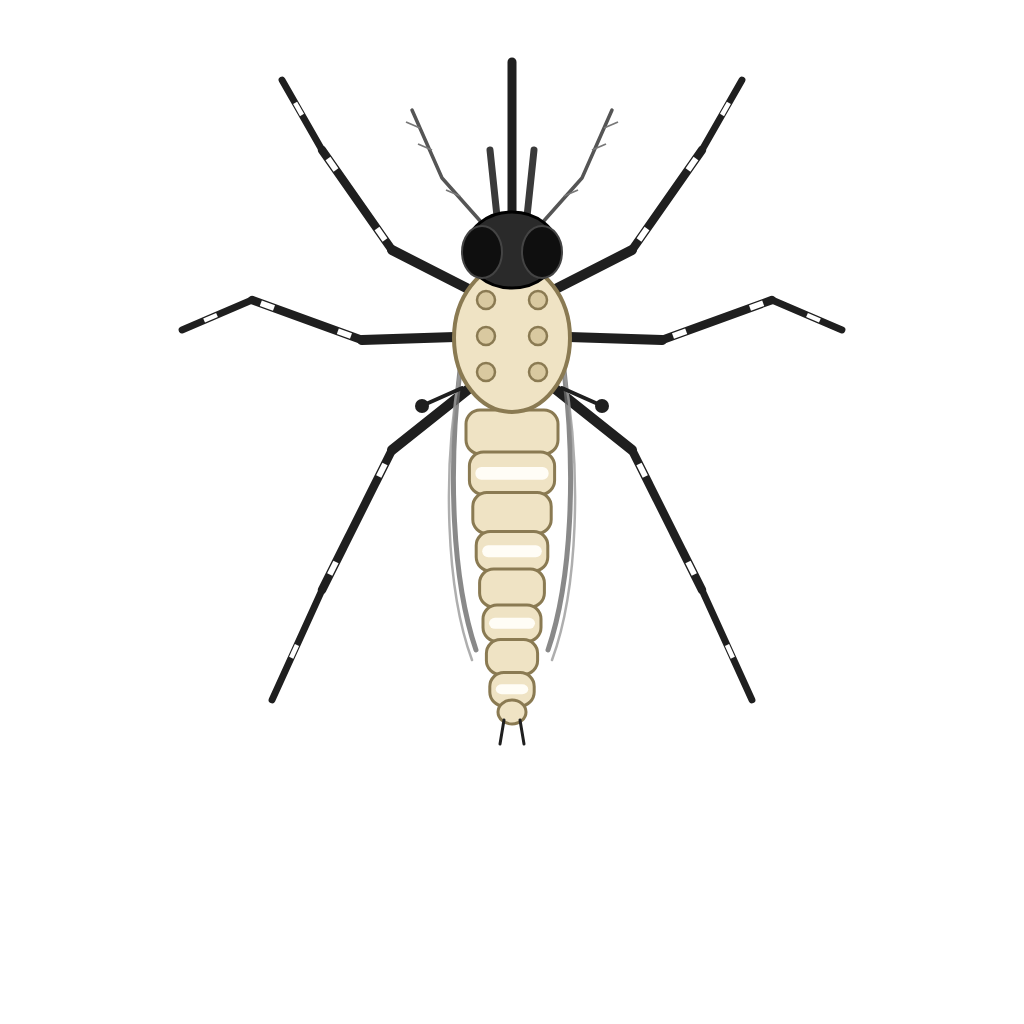
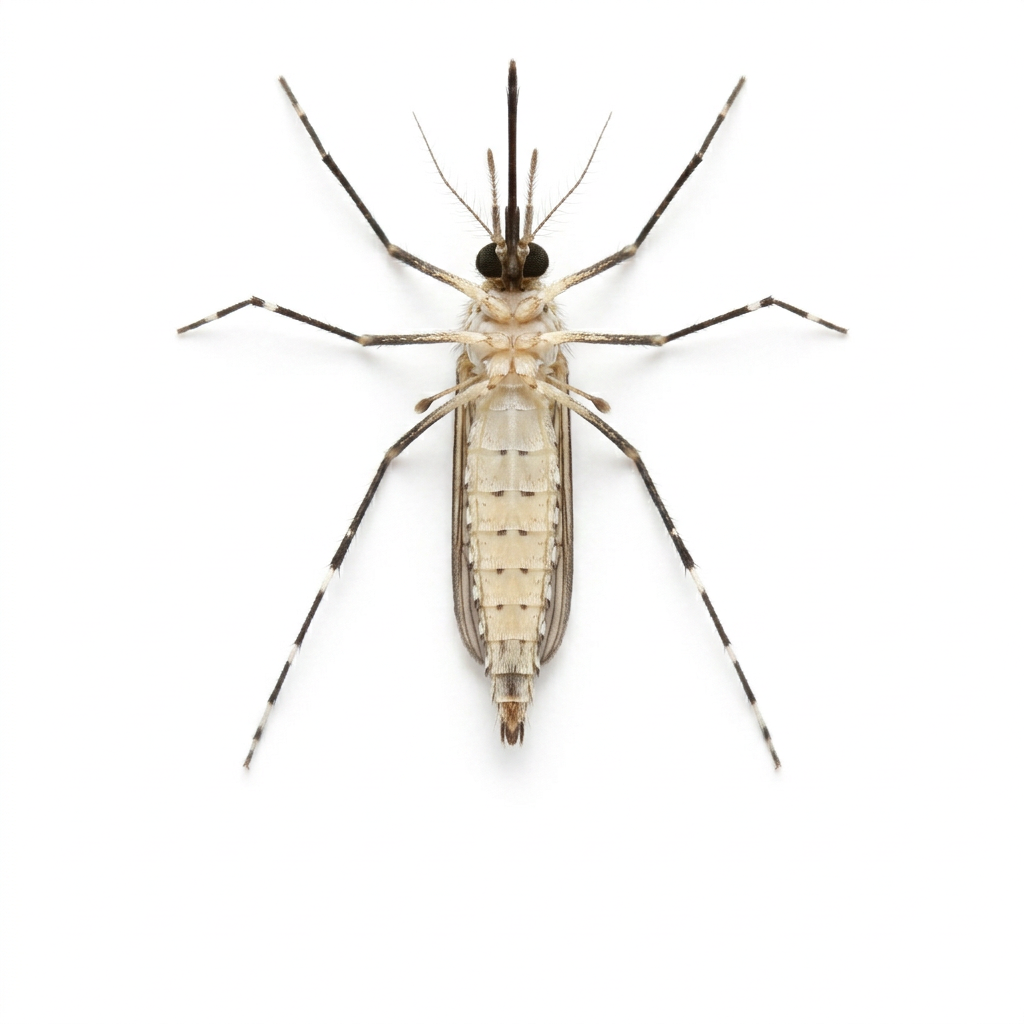
Update image results and review notes for various species
- Changed status from "revisi" to "ok" for several images of Aedes mosquitoes, cockroaches, and bees after successful revisions.
- Updated notes to reflect the realistic rendering of images based on new guidelines.
- Added new image files for cockroaches, bees, and mosquitoes with updated turnaround views.
- Included additional usage records for images processed through the Gemini model.
- Adjusted existing images to ensure consistency with realistic styles and removed vector images that did not meet standards.

diff --git a/osn-app/image-results/_galeri.html b/osn-app/image-results/_galeri.html
@@ -13,7 +13,7 @@ figcaption span{color:#fff;border-radius:99px;padding:1px 8px;font-size:12px}sma
 .tabs-bab{margin-top:12px}
 .ringkas{margin:6px 0 14px;font-size:15px}.ringkas b{font-weight:700}</style>
 <h1>Galeri gambar OSN SD</h1>
-<p class="ringkas"><b>2092 slot seharusnya ada · 2092 terisi · 0 belum di-generate (100% terisi) · 375 objek</b><br>lolos: 2084 · revisi: 8 · salah: 0 · belum direview: 0</p>
+<p class="ringkas"><b>2092 slot seharusnya ada · 2092 terisi · 0 belum di-generate (100% terisi) · 375 objek</b><br>lolos: 2092 · revisi: 0 · salah: 0 · belum direview: 0</p>
 <p>klik gambar untuk ukuran penuh · kotak putus-putus = slot yang seharusnya ada tetapi belum di-generate · muat ulang halaman ini setelah menjalankan galeri.mjs lagi</p>
 <nav class="tabs tabs-mapel"><button class="tab-mapel active" data-mapel="ipa">IPA <small>1908/1908</small></button><button class="tab-mapel" data-mapel="mtk">MTK <small>184/184</small></button></nav>
 <div class="panel-mapel" data-mapel="ipa" >
@@ -409,9 +409,9 @@ figcaption span{color:#fff;border-radius:99px;padding:1px 8px;font-size:12px}sma
 <figcaption><b>p12-penampang-transparan</b> <span style="background:#16a34a">lolos</span><small>Lolos (perlu paraf guru IPA): tampak perut dengan paru-paru, jantung, hati, lambung, usus, kandung kemih; kaki depan 4 jari, belakang 5 jari.</small></figcaption></figure></div></section><section><h2>kecambah <em>ipa/01-makhluk-hidup/kecambah</em> <span class="cnt">2/2 terisi</span></h2><div class="grid"><figure><a href="ipa/01-makhluk-hidup/kecambah/p01-realistis-depan.png" target="_blank"><img loading="lazy" src="ipa/01-makhluk-hidup/kecambah/p01-realistis-depan.png" alt="kecambah p01-realistis-depan"></a>
 <figcaption><b>p01-realistis-depan</b> <span style="background:#16a34a">lolos</span><small>Tepat 4 tahap perkecambahan kacang hijau: (1) biji utuh, (2) biji terbelah dengan radikula kecil, (3) kecambah dengan hipokotil berkait dan akar memanjang, (4) kecambah berdiri dengan kotiledon lebih besar di bawah dan sepasang daun sejati di atas, akar di bawah. Tidak ada tanah/panah/teks, sesuai prompt.</small></figcaption></figure><figure><a href="ipa/01-makhluk-hidup/kecambah/p02-ilustrasi-depan.png" target="_blank"><img loading="lazy" src="ipa/01-makhluk-hidup/kecambah/p02-ilustrasi-depan.png" alt="kecambah p02-ilustrasi-depan"></a>
 <figcaption><b>p02-ilustrasi-depan</b> <span style="background:#16a34a">lolos</span><small>FIXED (sebelumnya GAGAL karena 5 tahap) — sekarang tepat 4 tahap perkecambahan kacang hijau: (1) biji utuh, (2) biji terbelah dengan radikula kecil, (3) kecambah dengan hipokotil berkait dan akar memanjang, (4) kecambah berdiri dengan kotiledon terangkat di batang (sesuai perkecambahan epigeal kacang hijau) dan sepasang daun sejati, akar di bawah. Tidak ada tanah/panah/teks. Lolos.</small></figcaption></figure></div></section><section><h2>kecoak <em>ipa/01-makhluk-hidup/kecoak</em> <span class="cnt">10/10 terisi</span></h2><div class="grid"><figure><a href="ipa/01-makhluk-hidup/kecoak/p01-realistis-turnaround.png" target="_blank"><img loading="lazy" src="ipa/01-makhluk-hidup/kecoak/p01-realistis-turnaround.png" alt="kecoak p01-realistis-turnaround"></a>
-<figcaption><b>p01-realistis-turnaround</b> <span style="background:#d97706">revisi</span><small>Keempat salinan identik (tampak atas). Prompt: &quot;Four copies: front (head toward camera, eye level), back, left profile, right profile.&quot;</small></figcaption></figure><figure><a href="ipa/01-makhluk-hidup/kecoak/p02-realistis-depan.png" target="_blank"><img loading="lazy" src="ipa/01-makhluk-hidup/kecoak/p02-realistis-depan.png" alt="kecoak p02-realistis-depan"></a>
+<figcaption><b>p01-realistis-turnaround</b> <span style="background:#16a34a">lolos</span><small>Disusun otomatis dari p02, p03, p04, p05 (depan, belakang, kiri, kanan) yang sudah lolos review.</small></figcaption></figure><figure><a href="ipa/01-makhluk-hidup/kecoak/p02-realistis-depan.png" target="_blank"><img loading="lazy" src="ipa/01-makhluk-hidup/kecoak/p02-realistis-depan.png" alt="kecoak p02-realistis-depan"></a>
 <figcaption><b>p02-realistis-depan</b> <span style="background:#16a34a">lolos</span><small>Lolos: kecoak Amerika, 6 kaki berduri, antena panjang, pronotum berpola, sayap menutupi abdomen.</small></figcaption></figure><figure><a href="ipa/01-makhluk-hidup/kecoak/p03-realistis-belakang.png" target="_blank"><img loading="lazy" src="ipa/01-makhluk-hidup/kecoak/p03-realistis-belakang.png" alt="kecoak p03-realistis-belakang"></a>
-<figcaption><b>p03-realistis-belakang</b> <span style="background:#d97706">revisi</span><small>Konten benar setelah 5x gagal di Gemini (duplikat tampak depan): kecoak dari belakang, sayap penutup berupa kubah dengan garis tengah, ujung perut dan sepasang sersi (cerci) bersegmen mengarah ke penonton, tiga pasang kaki berduri terentang (kaki belakang paling besar), antena panjang ke depan. Tetapi ini gambar VEKTOR datar, bukan foto realistis seperti p02/p04/p05 — gaya tidak konsisten dengan set realistis. Tidak diterbitkan app (slot belakang tidak dipakai).</small></figcaption></figure><figure><a href="ipa/01-makhluk-hidup/kecoak/p04-realistis-kiri.png" target="_blank"><img loading="lazy" src="ipa/01-makhluk-hidup/kecoak/p04-realistis-kiri.png" alt="kecoak p04-realistis-kiri"></a>
+<figcaption><b>p03-realistis-belakang</b> <span style="background:#16a34a">lolos</span><small>Foto realistis (dirender Gemini dari panduan komposisi vektor + foto depan p02, skrip gemini-ref.mjs). Tampak belakang sungguhan: kubah sayap penutup dengan garis tengah, ujung perut dan sepasang sersi bersegmen mengarah ke kamera, pronotum berpita pucat di ujung jauh, 6 kaki berduri (3 per sisi, kaki belakang terbesar), 2 antena panjang. Latar putih polos, tanpa teks. Jumlah bagian dihitung manual dari gambar.</small></figcaption></figure><figure><a href="ipa/01-makhluk-hidup/kecoak/p04-realistis-kiri.png" target="_blank"><img loading="lazy" src="ipa/01-makhluk-hidup/kecoak/p04-realistis-kiri.png" alt="kecoak p04-realistis-kiri"></a>
 <figcaption><b>p04-realistis-kiri</b> <span style="background:#16a34a">lolos</span><small>Lolos: kecoak Amerika, 6 kaki berduri, antena panjang, pronotum berpola, sayap menutupi abdomen.</small></figcaption></figure><figure><a href="ipa/01-makhluk-hidup/kecoak/p05-realistis-kanan.png" target="_blank"><img loading="lazy" src="ipa/01-makhluk-hidup/kecoak/p05-realistis-kanan.png" alt="kecoak p05-realistis-kanan"></a>
 <figcaption><b>p05-realistis-kanan</b> <span style="background:#16a34a">lolos</span><small>Lolos: kecoak Amerika, 6 kaki berduri, antena panjang, pronotum berpola, sayap menutupi abdomen.</small></figcaption></figure><figure><a href="ipa/01-makhluk-hidup/kecoak/p06-ilustrasi-turnaround.png" target="_blank"><img loading="lazy" src="ipa/01-makhluk-hidup/kecoak/p06-ilustrasi-turnaround.png" alt="kecoak p06-ilustrasi-turnaround"></a>
 <figcaption><b>p06-ilustrasi-turnaround</b> <span style="background:#16a34a">lolos</span><small>Disusun otomatis dari p07, p08, p09, p10 (depan, belakang, kiri, kanan) yang sudah lolos review.</small></figcaption></figure><figure><a href="ipa/01-makhluk-hidup/kecoak/p07-ilustrasi-depan.png" target="_blank"><img loading="lazy" src="ipa/01-makhluk-hidup/kecoak/p07-ilustrasi-depan.png" alt="kecoak p07-ilustrasi-depan"></a>
@@ -567,9 +567,9 @@ figcaption span{color:#fff;border-radius:99px;padding:1px 8px;font-size:12px}sma
 <figcaption><b>p08-ilustrasi-belakang</b> <span style="background:#16a34a">lolos</span><small>Lolos: lalat rumah, 2 sayap, 6 kaki berbulu, mata majemuk merah, 4 garis gelap di toraks.</small></figcaption></figure><figure><a href="ipa/01-makhluk-hidup/lalat/p09-ilustrasi-kiri.png" target="_blank"><img loading="lazy" src="ipa/01-makhluk-hidup/lalat/p09-ilustrasi-kiri.png" alt="lalat p09-ilustrasi-kiri"></a>
 <figcaption><b>p09-ilustrasi-kiri</b> <span style="background:#16a34a">lolos</span><small>Lolos: lalat rumah, 2 sayap, 6 kaki berbulu, mata majemuk merah, 4 garis gelap di toraks.</small></figcaption></figure><figure><a href="ipa/01-makhluk-hidup/lalat/p10-ilustrasi-kanan.png" target="_blank"><img loading="lazy" src="ipa/01-makhluk-hidup/lalat/p10-ilustrasi-kanan.png" alt="lalat p10-ilustrasi-kanan"></a>
 <figcaption><b>p10-ilustrasi-kanan</b> <span style="background:#16a34a">lolos</span><small>Lolos: lalat rumah, 2 sayap, 6 kaki berbulu, mata majemuk merah, 4 garis gelap di toraks.</small></figcaption></figure></div></section><section><h2>lebah <em>ipa/01-makhluk-hidup/lebah</em> <span class="cnt">10/10 terisi</span></h2><div class="grid"><figure><a href="ipa/01-makhluk-hidup/lebah/p01-realistis-turnaround.png" target="_blank"><img loading="lazy" src="ipa/01-makhluk-hidup/lebah/p01-realistis-turnaround.png" alt="lebah p01-realistis-turnaround"></a>
-<figcaption><b>p01-realistis-turnaround</b> <span style="background:#d97706">revisi</span><small>Kedua profil menghadap ke kiri; profil kanan tidak ada. Prompt: &quot;Third copy head pointing LEFT, fourth copy head pointing RIGHT.&quot;</small></figcaption></figure><figure><a href="ipa/01-makhluk-hidup/lebah/p02-realistis-depan.png" target="_blank"><img loading="lazy" src="ipa/01-makhluk-hidup/lebah/p02-realistis-depan.png" alt="lebah p02-realistis-depan"></a>
+<figcaption><b>p01-realistis-turnaround</b> <span style="background:#16a34a">lolos</span><small>Disusun otomatis dari p02, p03, p04, p05 (depan, belakang, kiri, kanan) yang sudah lolos review.</small></figcaption></figure><figure><a href="ipa/01-makhluk-hidup/lebah/p02-realistis-depan.png" target="_blank"><img loading="lazy" src="ipa/01-makhluk-hidup/lebah/p02-realistis-depan.png" alt="lebah p02-realistis-depan"></a>
 <figcaption><b>p02-realistis-depan</b> <span style="background:#16a34a">lolos</span><small>Lolos: lebah madu, 4 sayap, 6 kaki dengan keranjang serbuk sari, abdomen bergaris.</small></figcaption></figure><figure><a href="ipa/01-makhluk-hidup/lebah/p03-realistis-belakang.png" target="_blank"><img loading="lazy" src="ipa/01-makhluk-hidup/lebah/p03-realistis-belakang.png" alt="lebah p03-realistis-belakang"></a>
-<figcaption><b>p03-realistis-belakang</b> <span style="background:#d97706">revisi</span><small>Konten benar (lebah dari belakang: ujung perut + sengat paling dekat, kepala kecil + antena bersiku di ujung jauh, 4 sayap terlipat, 6 kaki, keranjang serbuk sari) tetapi file ini gambar VEKTOR datar, bukan foto ultra-realistis seperti p02/p04/p05 — gaya tidak konsisten dengan set realistis (permintaan reviewer osn-app-ce). Tidak diterbitkan app. Perbaikan: foto tampak belakang lebah madu CC0/PD (belum ditemukan di Commons) atau generasi foto realistis baru dengan acuan depan satu-giliran.</small></figcaption></figure><figure><a href="ipa/01-makhluk-hidup/lebah/p04-realistis-kiri.png" target="_blank"><img loading="lazy" src="ipa/01-makhluk-hidup/lebah/p04-realistis-kiri.png" alt="lebah p04-realistis-kiri"></a>
+<figcaption><b>p03-realistis-belakang</b> <span style="background:#16a34a">lolos</span><small>Foto realistis (dirender Gemini dari panduan komposisi vektor + foto depan p02, skrip gemini-ref.mjs). Tampak belakang (ujung perut mengarah ke kamera): perut bergaris amber-hitam, sayap terlipat di atas punggung, toraks berbulu emas, kepala kecil dengan 2 antena bersiku di ujung jauh, 6 kaki (3 per sisi) dengan keranjang serbuk sari kuning di kaki belakang. Sengat tidak terlihat (sesuai katalog). Latar putih polos, tanpa teks. Jumlah bagian dihitung manual.</small></figcaption></figure><figure><a href="ipa/01-makhluk-hidup/lebah/p04-realistis-kiri.png" target="_blank"><img loading="lazy" src="ipa/01-makhluk-hidup/lebah/p04-realistis-kiri.png" alt="lebah p04-realistis-kiri"></a>
 <figcaption><b>p04-realistis-kiri</b> <span style="background:#16a34a">lolos</span><small>Lolos: lebah madu, 4 sayap, 6 kaki dengan keranjang serbuk sari, abdomen bergaris.</small></figcaption></figure><figure><a href="ipa/01-makhluk-hidup/lebah/p05-realistis-kanan.png" target="_blank"><img loading="lazy" src="ipa/01-makhluk-hidup/lebah/p05-realistis-kanan.png" alt="lebah p05-realistis-kanan"></a>
 <figcaption><b>p05-realistis-kanan</b> <span style="background:#16a34a">lolos</span><small>Lolos: lebah madu, 4 sayap, 6 kaki dengan keranjang serbuk sari, abdomen bergaris.</small></figcaption></figure><figure><a href="ipa/01-makhluk-hidup/lebah/p06-ilustrasi-turnaround.png" target="_blank"><img loading="lazy" src="ipa/01-makhluk-hidup/lebah/p06-ilustrasi-turnaround.png" alt="lebah p06-ilustrasi-turnaround"></a>
 <figcaption><b>p06-ilustrasi-turnaround</b> <span style="background:#16a34a">lolos</span><small>Disusun otomatis dari p07, p08, p09, p10 (depan, belakang, kiri, kanan) yang sudah lolos review.</small></figcaption></figure><figure><a href="ipa/01-makhluk-hidup/lebah/p07-ilustrasi-depan.png" target="_blank"><img loading="lazy" src="ipa/01-makhluk-hidup/lebah/p07-ilustrasi-depan.png" alt="lebah p07-ilustrasi-depan"></a>
@@ -621,9 +621,9 @@ figcaption span{color:#fff;border-radius:99px;padding:1px 8px;font-size:12px}sma
 <figcaption><b>p02-ilustrasi-depan</b> <span style="background:#16a34a">lolos</span><small>Konsisten dengan versi realistis: bunga merah spiral, kuncup, daun bergerigi, duri pada batang, gaya ilustrasi bersih sesuai spesifikasi.</small></figcaption></figure></div></section><section><h2>melinjo <em>ipa/01-makhluk-hidup/melinjo</em> <span class="cnt">2/2 terisi</span></h2><div class="grid"><figure><a href="ipa/01-makhluk-hidup/melinjo/p01-realistis-depan.png" target="_blank"><img loading="lazy" src="ipa/01-makhluk-hidup/melinjo/p01-realistis-depan.png" alt="melinjo p01-realistis-depan"></a>
 <figcaption><b>p01-realistis-depan</b> <span style="background:#16a34a">lolos</span><small>Ranting melinjo dengan daun elips mengilap berhadapan dan kelompok biji telanjang (naked seeds, bukan di dalam buah) dalam berbagai tahap kematangan (hijau, kuning, oranye, merah) — sesuai deskripsi Gnetum gnemon dan ciri khas Gymnospermae (biji terbuka).</small></figcaption></figure><figure><a href="ipa/01-makhluk-hidup/melinjo/p02-ilustrasi-depan.png" target="_blank"><img loading="lazy" src="ipa/01-makhluk-hidup/melinjo/p02-ilustrasi-depan.png" alt="melinjo p02-ilustrasi-depan"></a>
 <figcaption><b>p02-ilustrasi-depan</b> <span style="background:#16a34a">lolos</span><small>Konsisten dengan versi realistis: daun elips berhadapan, kelompok biji dalam berbagai warna kematangan pada tangkai pendek sepanjang ranting, gaya ilustrasi sesuai spesifikasi.</small></figcaption></figure></div></section><section><h2>nyamuk-aedes <em>ipa/01-makhluk-hidup/nyamuk-aedes</em> <span class="cnt">10/10 terisi</span></h2><div class="grid"><figure><a href="ipa/01-makhluk-hidup/nyamuk-aedes/p01-realistis-turnaround.png" target="_blank"><img loading="lazy" src="ipa/01-makhluk-hidup/nyamuk-aedes/p01-realistis-turnaround.png" alt="nyamuk-aedes p01-realistis-turnaround"></a>
-<figcaption><b>p01-realistis-turnaround</b> <span style="background:#d97706">revisi</span><small>Ilmiah benar (pola lira putih di toraks, kaki bergelang putih, antena betina berambut jarang, 6 kaki), tetapi ada garis pembatas panel padahal dilarang. Kecil; bisa dipakai setelah dipotong per panel, atau generate ulang dengan template baru.</small></figcaption></figure><figure><a href="ipa/01-makhluk-hidup/nyamuk-aedes/p02-realistis-depan.png" target="_blank"><img loading="lazy" src="ipa/01-makhluk-hidup/nyamuk-aedes/p02-realistis-depan.png" alt="nyamuk-aedes p02-realistis-depan"></a>
+<figcaption><b>p01-realistis-turnaround</b> <span style="background:#16a34a">lolos</span><small>Disusun otomatis dari p02, p03, p04, p05 (depan, belakang, kiri, kanan) yang sudah lolos review.</small></figcaption></figure><figure><a href="ipa/01-makhluk-hidup/nyamuk-aedes/p02-realistis-depan.png" target="_blank"><img loading="lazy" src="ipa/01-makhluk-hidup/nyamuk-aedes/p02-realistis-depan.png" alt="nyamuk-aedes p02-realistis-depan"></a>
 <figcaption><b>p02-realistis-depan</b> <span style="background:#16a34a">lolos</span><small>Digambar dari atas (dorsal), bukan depan, tetapi justru paling informatif: lira putih, 6 kaki bergelang, antena betina, sayap bersisik. Benar untuk Aedes aegypti betina.</small></figcaption></figure><figure><a href="ipa/01-makhluk-hidup/nyamuk-aedes/p03-realistis-belakang.png" target="_blank"><img loading="lazy" src="ipa/01-makhluk-hidup/nyamuk-aedes/p03-realistis-belakang.png" alt="nyamuk-aedes p03-realistis-belakang"></a>
-<figcaption><b>p03-realistis-belakang</b> <span style="background:#d97706">revisi</span><small>Konten benar (tampak bawah/ventral nyamuk Aedes betina: perut dan dada krem, 6 kaki bercincin putih, belalai, antena betina berambut jarang, halter, sayap terlipat) tetapi file ini gambar VEKTOR datar, bukan foto makro realistis seperti p02/p04/p05 — gaya tidak konsisten dengan set realistis. Tidak diterbitkan app (belakang tidak dipakai). Perbaikan: foto makro ventral nyamuk CC0/PD (belum ditemukan) atau biarkan sebagai pelengkap set.</small></figcaption></figure><figure><a href="ipa/01-makhluk-hidup/nyamuk-aedes/p04-realistis-kiri.png" target="_blank"><img loading="lazy" src="ipa/01-makhluk-hidup/nyamuk-aedes/p04-realistis-kiri.png" alt="nyamuk-aedes p04-realistis-kiri"></a>
+<figcaption><b>p03-realistis-belakang</b> <span style="background:#16a34a">lolos</span><small>Foto realistis (dirender Gemini dari panduan komposisi vektor + foto depan p02, skrip gemini-ref.mjs). Tampak bawah (ventral): perut dan dada krem pucat bergaris segmen, tepat 6 kaki hitam bercincin putih (3 pasang: depan, tengah, belakang) menempel di sisi bawah dada, belalai panjang ke depan dengan 2 palpus pendek, 2 antena tipis berambut jarang (betina), halter kecil, sayap terlipat tampak dari tepi (tidak terbentang), tanpa pola lira. Berbeda jelas dari tampak depan (dorsal). Latar putih polos, tanpa teks. Jumlah kaki dihitung manual.</small></figcaption></figure><figure><a href="ipa/01-makhluk-hidup/nyamuk-aedes/p04-realistis-kiri.png" target="_blank"><img loading="lazy" src="ipa/01-makhluk-hidup/nyamuk-aedes/p04-realistis-kiri.png" alt="nyamuk-aedes p04-realistis-kiri"></a>
 <figcaption><b>p04-realistis-kiri</b> <span style="background:#16a34a">lolos</span><small>Profil samping, kepala ke kiri, 6 kaki bergelang putih, belalai dan antena. Benar.</small></figcaption></figure><figure><a href="ipa/01-makhluk-hidup/nyamuk-aedes/p05-realistis-kanan.png" target="_blank"><img loading="lazy" src="ipa/01-makhluk-hidup/nyamuk-aedes/p05-realistis-kanan.png" alt="nyamuk-aedes p05-realistis-kanan"></a>
 <figcaption><b>p05-realistis-kanan</b> <span style="background:#16a34a">lolos</span><small>Profil samping yang baik: kepala/probosis mengarah ke tepi KANAN gambar sesuai label, pola pita putih pada kaki dan abdomen terlihat jelas, tanda lira putih di toraks terlihat dari samping. Antena tampak tipis dengan sedikit bulu halus (pilose), bukan bulu lebat penuh (plumose) seperti nyamuk jantan — konsisten dengan deskripsi betina di prompt.</small></figcaption></figure><figure><a href="ipa/01-makhluk-hidup/nyamuk-aedes/p06-ilustrasi-turnaround.png" target="_blank"><img loading="lazy" src="ipa/01-makhluk-hidup/nyamuk-aedes/p06-ilustrasi-turnaround.png" alt="nyamuk-aedes p06-ilustrasi-turnaround"></a>
 <figcaption><b>p06-ilustrasi-turnaround</b> <span style="background:#16a34a">lolos</span><small>Disusun otomatis dari p07, p08, p09, p10 (depan, belakang, kiri, kanan) yang sudah lolos review.</small></figcaption></figure><figure><a href="ipa/01-makhluk-hidup/nyamuk-aedes/p07-ilustrasi-depan.png" target="_blank"><img loading="lazy" src="ipa/01-makhluk-hidup/nyamuk-aedes/p07-ilustrasi-depan.png" alt="nyamuk-aedes p07-ilustrasi-depan"></a>
@@ -915,10 +915,10 @@ figcaption span{color:#fff;border-radius:99px;padding:1px 8px;font-size:12px}sma
 <figcaption><b>p02-ilustrasi-atas</b> <span style="background:#16a34a">lolos</span><small>Lolos: tampak atas piring dengan nasi (makanan pokok), lauk (ikan, telur, tempe), sayur, buah, dan segelas air, porsi sayur+buah sekitar setengah piring.</small></figcaption></figure></div></section><section><h2>janin-rahim <em>ipa/02-tubuh-manusia/janin-rahim</em> <span class="cnt">2/2 terisi</span></h2><div class="grid"><figure><a href="ipa/02-tubuh-manusia/janin-rahim/p01-realistis-depan.png" target="_blank"><img loading="lazy" src="ipa/02-tubuh-manusia/janin-rahim/p01-realistis-depan.png" alt="janin-rahim p01-realistis-depan"></a>
 <figcaption><b>p01-realistis-depan</b> <span style="background:#16a34a">lolos</span><small>Lolos (perlu paraf guru IPA): janin di dalam rahim dengan plasenta, tali pusat, cairan ketuban; diagram klinis.</small></figcaption></figure><figure><a href="ipa/02-tubuh-manusia/janin-rahim/p02-ilustrasi-depan.png" target="_blank"><img loading="lazy" src="ipa/02-tubuh-manusia/janin-rahim/p02-ilustrasi-depan.png" alt="janin-rahim p02-ilustrasi-depan"></a>
 <figcaption><b>p02-ilustrasi-depan</b> <span style="background:#16a34a">lolos</span><small>Lolos (perlu paraf guru IPA): janin di dalam rahim dengan plasenta, tali pusat, cairan ketuban; diagram klinis.</small></figcaption></figure></div></section><section><h2>jantung <em>ipa/02-tubuh-manusia/jantung</em> <span class="cnt">12/12 terisi</span></h2><div class="grid"><figure><a href="ipa/02-tubuh-manusia/jantung/p01-realistis-turnaround.png" target="_blank"><img loading="lazy" src="ipa/02-tubuh-manusia/jantung/p01-realistis-turnaround.png" alt="jantung p01-realistis-turnaround"></a>
-<figcaption><b>p01-realistis-turnaround</b> <span style="background:#d97706">revisi</span><small>Keempat salinan hampir sama (tampak depan miring). Prompt: &quot;Exactly four copies: anterior, posterior, left lateral, right lateral.&quot;</small></figcaption></figure><figure><a href="ipa/02-tubuh-manusia/jantung/p02-realistis-depan.png" target="_blank"><img loading="lazy" src="ipa/02-tubuh-manusia/jantung/p02-realistis-depan.png" alt="jantung p02-realistis-depan"></a>
+<figcaption><b>p01-realistis-turnaround</b> <span style="background:#16a34a">lolos</span><small>Disusun otomatis dari p02, p03, p04, p05 (depan, belakang, kiri, kanan) yang sudah lolos review.</small></figcaption></figure><figure><a href="ipa/02-tubuh-manusia/jantung/p02-realistis-depan.png" target="_blank"><img loading="lazy" src="ipa/02-tubuh-manusia/jantung/p02-realistis-depan.png" alt="jantung p02-realistis-depan"></a>
 <figcaption><b>p02-realistis-depan</b> <span style="background:#16a34a">lolos</span><small>Lolos (perlu paraf guru IPA): vena kava di sisi kiri gambar, apeks ke kanan bawah gambar, aorta melengkung, arteri koroner; tampak belakang dengan vena pulmonalis.</small></figcaption></figure><figure><a href="ipa/02-tubuh-manusia/jantung/p03-realistis-belakang.png" target="_blank"><img loading="lazy" src="ipa/02-tubuh-manusia/jantung/p03-realistis-belakang.png" alt="jantung p03-realistis-belakang"></a>
 <figcaption><b>p03-realistis-belakang</b> <span style="background:#16a34a">lolos</span><small>Lolos (perlu paraf guru IPA): vena kava di sisi kiri gambar, apeks ke kanan bawah gambar, aorta melengkung, arteri koroner; tampak belakang dengan vena pulmonalis.</small></figcaption></figure><figure><a href="ipa/02-tubuh-manusia/jantung/p04-realistis-kiri.png" target="_blank"><img loading="lazy" src="ipa/02-tubuh-manusia/jantung/p04-realistis-kiri.png" alt="jantung p04-realistis-kiri"></a>
-<figcaption><b>p04-realistis-kiri</b> <span style="background:#d97706">revisi</span><small>Konten benar (jantung tampak samping kiri: ventrikel kiri dominan, apeks kiri-bawah, LAD + vena jantung besar, sirkumfleks, aurikel kiri, batang pulmonalis, lengkung aorta, 2 vena pulmonalis kiri) tetapi file ini gambar VEKTOR skematik datar, bukan foto/model realistis seperti p02/p03/p05 — gaya tidak konsisten dengan set realistis. Tidak diterbitkan app (utama = p07 ilustrasi-depan; samping = p05). Perbaikan: foto model jantung tampak kiri CC0/PD (tidak ditemukan di Commons) atau generasi realistis baru. Perlu paraf guru IPA.</small></figcaption></figure><figure><a href="ipa/02-tubuh-manusia/jantung/p05-realistis-kanan.png" target="_blank"><img loading="lazy" src="ipa/02-tubuh-manusia/jantung/p05-realistis-kanan.png" alt="jantung p05-realistis-kanan"></a>
+<figcaption><b>p04-realistis-kiri</b> <span style="background:#16a34a">lolos</span><small>Model jantung realistis tampak samping kiri (dirender Gemini dengan acuan sudut dari foto model jantung domain publik &quot;Heart with ventricles and arteries&quot; (Commons, hanya sebagai masukan, tidak dipakai langsung) + foto depan p02 untuk gaya; skrip gemini-ref.mjs). Semua pembuluh menyambung ke jantung: lengkung aorta merah dengan 3 cabang di atas, batang pulmonalis biru melintang di depan, vena kava atas biru di kiri atas, aurikel kiri, dua muara vena pulmonalis kiri di sisi kanan gambar, pembuluh koroner (LAD + vena jantung besar) di permukaan ventrikel kiri yang dominan, apeks ke bawah-kiri. Latar putih polos, tanpa teks, tanpa penyangga. Perlu paraf guru IPA (organ).</small></figcaption></figure><figure><a href="ipa/02-tubuh-manusia/jantung/p05-realistis-kanan.png" target="_blank"><img loading="lazy" src="ipa/02-tubuh-manusia/jantung/p05-realistis-kanan.png" alt="jantung p05-realistis-kanan"></a>
 <figcaption><b>p05-realistis-kanan</b> <span style="background:#16a34a">lolos</span><small>Lolos (perlu paraf guru IPA): vena kava di sisi kiri gambar, apeks ke kanan bawah gambar, aorta melengkung, arteri koroner; tampak belakang dengan vena pulmonalis.</small></figcaption></figure><figure><a href="ipa/02-tubuh-manusia/jantung/p06-ilustrasi-turnaround.png" target="_blank"><img loading="lazy" src="ipa/02-tubuh-manusia/jantung/p06-ilustrasi-turnaround.png" alt="jantung p06-ilustrasi-turnaround"></a>
 <figcaption><b>p06-ilustrasi-turnaround</b> <span style="background:#16a34a">lolos</span><small>Disusun otomatis dari p07, p08, p09, p10 (depan, belakang, kiri, kanan) yang sudah lolos review.</small></figcaption></figure><figure><a href="ipa/02-tubuh-manusia/jantung/p07-ilustrasi-depan.png" target="_blank"><img loading="lazy" src="ipa/02-tubuh-manusia/jantung/p07-ilustrasi-depan.png" alt="jantung p07-ilustrasi-depan"></a>
 <figcaption><b>p07-ilustrasi-depan</b> <span style="background:#16a34a">lolos</span><small>Gaya ilustrasi buku pelajaran, tampak depan, utuh, tanpa teks. Anatomi sesuai tingkat SD: lengkung aorta 3 cabang, vena cava superior &amp; inferior (biru) di sisi kanan tubuh (kiri gambar), apeks condong ke kiri tubuh (kanan gambar), arteri pulmonalis biru, pembuluh koroner di permukaan. Model: gemini-2.5-flash-image via Vertex AI. Tetap perlu cek guru IPA sebelum rilis.</small></figcaption></figure><figure><a href="ipa/02-tubuh-manusia/jantung/p08-ilustrasi-belakang.png" target="_blank"><img loading="lazy" src="ipa/02-tubuh-manusia/jantung/p08-ilustrasi-belakang.png" alt="jantung p08-ilustrasi-belakang"></a>

diff --git a/osn-app/image-results/_STATUS.md b/osn-app/image-results/_STATUS.md
@@ -2,7 +2,7 @@
 
 Di-generate oleh `image-prompts/_src/gen.mjs`. Jangan edit manual. Hasil review disimpan di `_review.json`.
 Keterangan: ⬜ belum ada gambar · 🔍 ada gambar, belum direview · ✅ lolos · ⚠ perlu revisi · ❌ salah (generate ulang)
-**Total:** 2092/2092 slot terisi · 2084/2092 lolos review
+**Total:** 2092/2092 slot terisi · 2092/2092 lolos review
 
 ## IPA 01 · Makhluk Hidup & Lingkungan
 
@@ -47,11 +47,11 @@ Keterangan: ⬜ belum ada gambar · 🔍 ada gambar, belum direview · ✅ lolos
 | [Kepiting (crustacea)](ipa/01-makhluk-hidup/kepiting/) | 10/10 | 10/10 |  |
 | [Laba-laba (arachnida)](ipa/01-makhluk-hidup/laba-laba/) | 10/10 | 10/10 |  |
 | [Semut (insecta)](ipa/01-makhluk-hidup/semut/) | 10/10 | 10/10 |  |
-| [Lebah madu (insecta, penyerbuk)](ipa/01-makhluk-hidup/lebah/) | 10/10 | 8/10 | p01-realistis-turnaround: ⚠ revisi — Kedua profil menghadap ke kiri; profil kanan tidak ada. Prompt: "Third copy head pointing LEFT, fourth copy head pointing RIGHT."<br>p03-realistis-belakang: ⚠ revisi — Konten benar (lebah dari belakang: ujung perut + sengat paling dekat, kepala kecil + antena bersiku di ujung jauh, 4 sayap terlipat, 6 kaki, keranjang serbuk sari) tetapi file ini gambar VEKTOR datar, bukan foto ultra-realistis seperti p02/p04/p05 — gaya tidak konsisten dengan set realistis (permintaan reviewer osn-app-ce). Tidak diterbitkan app. Perbaikan: foto tampak belakang lebah madu CC0/PD (belum ditemukan di Commons) atau generasi foto realistis baru dengan acuan depan satu-giliran. |
+| [Lebah madu (insecta, penyerbuk)](ipa/01-makhluk-hidup/lebah/) | 10/10 | 10/10 |  |
 | [Belalang (metamorfosis tidak sempurna)](ipa/01-makhluk-hidup/belalang/) | 12/12 | 12/12 |  |
-| [Kecoak (metamorfosis tidak sempurna)](ipa/01-makhluk-hidup/kecoak/) | 10/10 | 8/10 | p01-realistis-turnaround: ⚠ revisi — Keempat salinan identik (tampak atas). Prompt: "Four copies: front (head toward camera, eye level), back, left profile, right profile."<br>p03-realistis-belakang: ⚠ revisi — Konten benar setelah 5x gagal di Gemini (duplikat tampak depan): kecoak dari belakang, sayap penutup berupa kubah dengan garis tengah, ujung perut dan sepasang sersi (cerci) bersegmen mengarah ke penonton, tiga pasang kaki berduri terentang (kaki belakang paling besar), antena panjang ke depan. Tetapi ini gambar VEKTOR datar, bukan foto realistis seperti p02/p04/p05 — gaya tidak konsisten dengan set realistis. Tidak diterbitkan app (slot belakang tidak dipakai). |
+| [Kecoak (metamorfosis tidak sempurna)](ipa/01-makhluk-hidup/kecoak/) | 10/10 | 10/10 |  |
 | [Capung](ipa/01-makhluk-hidup/capung/) | 10/10 | 10/10 |  |
-| [Nyamuk Aedes aegypti (vektor DBD)](ipa/01-makhluk-hidup/nyamuk-aedes/) | 10/10 | 8/10 | p01-realistis-turnaround: ⚠ revisi — Ilmiah benar (pola lira putih di toraks, kaki bergelang putih, antena betina berambut jarang, 6 kaki), tetapi ada garis pembatas panel padahal dilarang. Kecil; bisa dipakai setelah dipotong per panel, atau generate ulang dengan template baru.<br>p03-realistis-belakang: ⚠ revisi — Konten benar (tampak bawah/ventral nyamuk Aedes betina: perut dan dada krem, 6 kaki bercincin putih, belalai, antena betina berambut jarang, halter, sayap terlipat) tetapi file ini gambar VEKTOR datar, bukan foto makro realistis seperti p02/p04/p05 — gaya tidak konsisten dengan set realistis. Tidak diterbitkan app (belakang tidak dipakai). Perbaikan: foto makro ventral nyamuk CC0/PD (belum ditemukan) atau biarkan sebagai pelengkap set. |
+| [Nyamuk Aedes aegypti (vektor DBD)](ipa/01-makhluk-hidup/nyamuk-aedes/) | 10/10 | 10/10 |  |
 | [Lalat rumah (vektor)](ipa/01-makhluk-hidup/lalat/) | 10/10 | 10/10 |  |
 | [Metamorfosis sempurna kupu-kupu (4 tahap)](ipa/01-makhluk-hidup/daur-kupu-kupu-set/) | 2/2 | 2/2 |  |
 | [Kupu-kupu dewasa (imago)](ipa/01-makhluk-hidup/kupu-kupu/) | 10/10 | 10/10 |  |
@@ -143,7 +143,7 @@ Keterangan: ⬜ belum ada gambar · 🔍 ada gambar, belum direview · ✅ lolos
 | [Paru-paru](ipa/02-tubuh-manusia/paru-paru/) | 12/12 | 12/12 |  |
 | [Alveolus (pertukaran O₂ & CO₂)](ipa/02-tubuh-manusia/alveolus/) | 4/4 | 4/4 |  |
 | [Insang ikan (alat napas hewan)](ipa/02-tubuh-manusia/insang-ikan/) | 4/4 | 4/4 |  |
-| [Jantung (luar)](ipa/02-tubuh-manusia/jantung/) | 12/12 | 10/12 | p01-realistis-turnaround: ⚠ revisi — Keempat salinan hampir sama (tampak depan miring). Prompt: "Exactly four copies: anterior, posterior, left lateral, right lateral."<br>p04-realistis-kiri: ⚠ revisi — Konten benar (jantung tampak samping kiri: ventrikel kiri dominan, apeks kiri-bawah, LAD + vena jantung besar, sirkumfleks, aurikel kiri, batang pulmonalis, lengkung aorta, 2 vena pulmonalis kiri) tetapi file ini gambar VEKTOR skematik datar, bukan foto/model realistis seperti p02/p03/p05 — gaya tidak konsisten dengan set realistis. Tidak diterbitkan app (utama = p07 ilustrasi-depan; samping = p05). Perbaikan: foto model jantung tampak kiri CC0/PD (tidak ditemukan di Commons) atau generasi realistis baru. Perlu paraf guru IPA. |
+| [Jantung (luar)](ipa/02-tubuh-manusia/jantung/) | 12/12 | 12/12 |  |
 | [Penampang jantung (4 ruang & katup)](ipa/02-tubuh-manusia/jantung-penampang/) | 4/4 | 4/4 |  |
 | [Pembuluh darah: arteri, vena, kapiler](ipa/02-tubuh-manusia/pembuluh-darah-set/) | 4/4 | 4/4 |  |
 | [Sel darah: eritrosit, leukosit, trombosit](ipa/02-tubuh-manusia/sel-darah-set/) | 4/4 | 4/4 |  |
